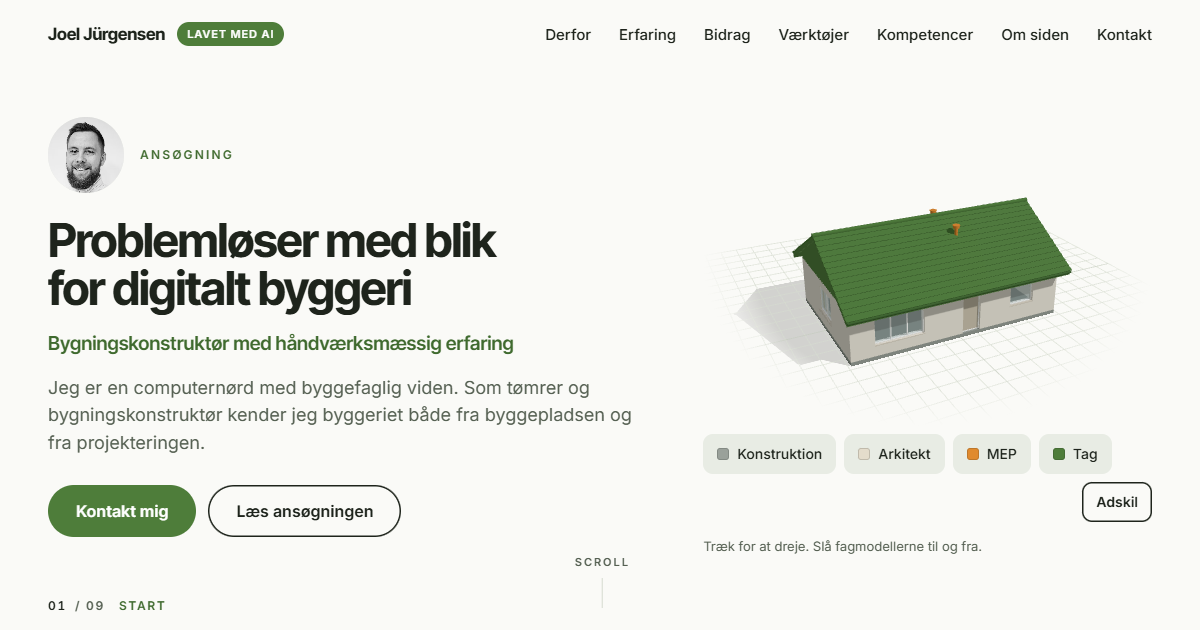
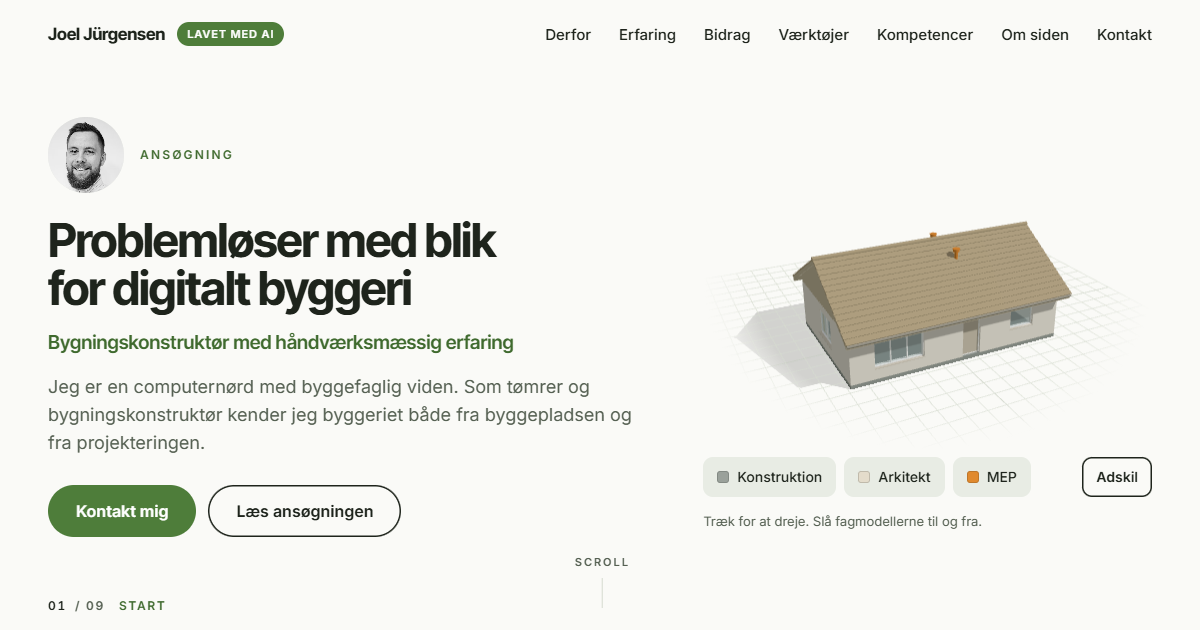
3D-hus: rem og spær i Konstruktion, taget i Arkitekt, fagmodellen Tag fjernet

diff --git a/house.js b/house.js
@@ -1,11 +1,12 @@
 /* =====================================================================
    house.js – 3D-huset i hero (Three.js r160, ingen build)
    Et parcelhus i ét plan, 11,7 × 7,4 m, bygget af geometri i koden og
-   delt i fire fagmodeller:
-     Konstruktion (grå)      stribefundament, sokkel og terrændæk
-     Arkitekt (hvid/beige)   hulmur med vinduer og døre, skillevægge
+   delt i tre fagmodeller:
+     Konstruktion (grå)      stribefundament, sokkel, terrændæk, rem og gitterspær
+     Arkitekt (hvid/beige)   hulmur med vinduer og døre, skillevægge og taget:
+                             lægter, tagsten, rygning, stern, tagrender og gavle
      MEP (orange)            ventilation: aggregat, kanaler, ventiler, taghætter
-     Tag (grøn)              rem, gitterspær, lægter, gavle og tagdækning
+   Et kald til setLayer('tag', …) fra en ældre lagknap gør ingenting.
    Mål i meter. y = 0 er terræn, og gitteret ligger i terrænhøjde. Fundamentet
    er skjult under terræn, indtil lagene adskilles og det løftes fri.
    ===================================================================== */
@@ -16,8 +17,7 @@ import { mergeGeometries } from 'three/addons/utils/BufferGeometryUtils.js';
 const LAYERS = {
   konstruktion: { label: 'Konstruktion', color: 0x9aa19a },
   arkitekt: { label: 'Arkitekt', color: 0xf0ebe1 },
-  mep: { label: 'MEP', color: 0xe08a2e },
-  tag: { label: 'Tag', color: 0x4e7d3a }
+  mep: { label: 'MEP', color: 0xe08a2e }
 };
 
 /* Lille hjælper: brug GSAP (samme easings som resten af siden), hvis det findes */
@@ -233,11 +233,16 @@ export function init(stage, opts = {}) {
   wallRun(vaegge, 'x', -0.9, -0.45, 1.75, 0.1, [dør(0.65, 0.8)], skille);       /* entré | bad */
   wallRun(vaegge, 'x', 0.35, 1.85, IX, 0.1, [], skille);                        /* værelse | værelse */
 
-  /* ================= 3 · Tag: rem, gitterspær, lægter og gavle ================= */
-  const spaer = makePart('tag', 6.6, 3);
-  const trae = material(spaer, 0x6c9858);              /* spærtræ og lægter, lysere end tagfladen */
-  const gavl = material(spaer, 0x5b8747);
-  const zink = material(spaer, 0x3f6830, 1, 0.6);
+  /* ================= 3 · Konstruktion: rem og gitterspær ================= */
+  const spaer = makePart('konstruktion', 6.6, 3);
+  const trae = material(spaer, 0xb1b7af);              /* spærtræ, lysere end betonen */
+
+  /* ================= 4 · Arkitekt: taget oven på spærene ================= */
+  const tagflade = makePart('arkitekt', 7.9, 5);
+  const tegl = material(tagflade, 0xb5a483);           /* tagsten og rygning i mørkere sand */
+  const laegte = material(tagflade, 0xddd3bb);
+  const gavl = material(tagflade, 0xcabea4);
+  const zink = material(tagflade, 0xa6a194, 1, 0.6);
 
   const PITCH = THREE.MathUtils.degToRad(30);
   const tanP = Math.tan(PITCH), cosP = Math.cos(PITCH), sinP = Math.sin(PITCH);
@@ -281,47 +286,46 @@ export function init(stage, opts = {}) {
   for (let i = 0; i < LAEGTER; i++) {
     const s = 0.07 + (i * (SLOPE - 0.14)) / (LAEGTER - 1);
     const zc = s * cosP + 0.025 * sinP, yc = yTop(0) - s * sinP + 0.025 * cosP;
-    [1, -1].forEach((side) => slopeBox(spaer, LX, 0.05, 0.075, side * PITCH, 0, yc, side * zc, trae));
+    [1, -1].forEach((side) => slopeBox(tagflade, LX, 0.05, 0.075, side * PITCH, 0, yc, side * zc, laegte));
   }
 
   /* Sternbræt og tagrende ved tagfoden */
   [1, -1].forEach((s) => {
-    box(spaer, LX, CHV + 0.03, 0.025, 0, (yTop(TAIL) + yBot(TAIL)) / 2 + 0.015, s * (TAIL + 0.0125), gavl);
-    put(spaer, new THREE.CylinderGeometry(0.065, 0.065, LX, 12).rotateZ(Math.PI / 2)
+    box(tagflade, LX, CHV + 0.03, 0.025, 0, (yTop(TAIL) + yBot(TAIL)) / 2 + 0.015, s * (TAIL + 0.0125), gavl);
+    put(tagflade, new THREE.CylinderGeometry(0.065, 0.065, LX, 12).rotateZ(Math.PI / 2)
       .translate(0, yTop(TAIL) - 0.05, s * (TAIL + 0.09)), zink);
   });
 
   /* Gavltrekanter med lodret bræddebeklædning (1 på 2) og vindskeder */
   [1, -1].forEach((s) => {
     const x = s * (L / 2 - 0.035);
-    prismX(spaer, [[-B / 2, WALL_TOP], [B / 2, WALL_TOP], [B / 2, yTop(B / 2)], [0, yTop(0)], [-B / 2, yTop(B / 2)]], 0.03, x, gavl);
+    prismX(tagflade, [[-B / 2, WALL_TOP], [B / 2, WALL_TOP], [B / 2, yTop(B / 2)], [0, yTop(0)], [-B / 2, yTop(B / 2)]], 0.03, x, gavl);
     for (let k = -14; k <= 14; k++) {
       const z0 = k * 0.25 - 0.05, z1 = k * 0.25 + 0.05;
       const pts = [[z0, WALL_TOP], [z1, WALL_TOP], [z1, yTop(z1)]];
       if (k === 0) pts.push([0, yTop(0)]);
       pts.push([z0, yTop(z0)]);
-      prismX(spaer, pts, 0.022, s * (L / 2 - 0.009), gavl);
+      prismX(tagflade, pts, 0.022, s * (L / 2 - 0.009), gavl);
     }
     const zv = TAIL + 0.025;
     const up = (z) => yTop(z) + 0.05 / cosP, dn = (z) => yTop(z) - 0.15;
-    prismX(spaer, [[-zv, dn(zv)], [0, dn(0)], [zv, dn(zv)], [zv, up(zv)], [0, up(0)], [-zv, up(zv)]], 0.025, s * (LX / 2 + 0.0125), gavl);
+    prismX(tagflade, [[-zv, dn(zv)], [0, dn(0)], [zv, dn(zv)], [zv, up(zv)], [0, up(0)], [-zv, up(zv)]], 0.025, s * (LX / 2 + 0.0125), gavl);
   });
 
-  /* ================= 4 · Tag: tagdækning og rygning ================= */
-  const tagflade = makePart('tag', 7.9, 5);
+  /* Tagdækning og rygning */
   const under = (z) => yTop(z) + 0.05 / cosP;          /* oven på lægterne */
   const over = (z) => under(z) + 0.06 / cosP;
   const EAVE = TAIL + 0.08;
-  prismX(tagflade, [[-EAVE, under(EAVE)], [0, under(0)], [EAVE, under(EAVE)], [EAVE, over(EAVE) - 0.03], [0, over(0) - 0.03], [-EAVE, over(EAVE) - 0.03]], LX + 0.08, 0);
+  prismX(tagflade, [[-EAVE, under(EAVE)], [0, under(0)], [EAVE, under(EAVE)], [EAVE, over(EAVE) - 0.03], [0, over(0) - 0.03], [-EAVE, over(EAVE) - 0.03]], LX + 0.08, 0, tegl);
   /* Tagsten i skifter: ét skifte pr. lægte, hvert skifte ligger en anelse fladere end tagfladen */
   const COURSE = (EAVE / cosP) / (LAEGTER - 1);
   const TILT = Math.atan(0.03 / COURSE);
   for (let i = 0; i < LAEGTER - 1; i++) {
     const s = (i + 0.5) * COURSE, n = 0.05 + 0.03 + 0.03;   /* afstand vinkelret fra spærets overside */
     const zc = s * cosP + n * sinP, yc = yTop(0) - s * sinP + n * cosP;
-    [1, -1].forEach((side) => slopeBox(tagflade, LX + 0.08, 0.03, COURSE / Math.cos(TILT), side * (PITCH - TILT), 0, yc, side * zc));
+    [1, -1].forEach((side) => slopeBox(tagflade, LX + 0.08, 0.03, COURSE / Math.cos(TILT), side * (PITCH - TILT), 0, yc, side * zc, tegl));
   }
-  put(tagflade, new THREE.CylinderGeometry(0.12, 0.12, LX + 0.12, 14).rotateZ(Math.PI / 2).translate(0, over(0) - 0.02, 0));
+  put(tagflade, new THREE.CylinderGeometry(0.12, 0.12, LX + 0.12, 14).rotateZ(Math.PI / 2).translate(0, over(0) - 0.02, 0), tegl);
 
   /* ================= 5 · MEP: ventilation i tagrummet ================= */
   const mep = makePart('mep', 3.9, 4);

diff --git a/index.html b/index.html
@@ -144,9 +144,12 @@ else document.documentElement.classList.add("reduced");
             <rect x="160" y="206" width="70" height="38" fill="#C7D8DA"/>
             <rect x="258" y="206" width="48" height="38" fill="#C7D8DA"/>
           </g>
-          <g data-layer="tag" class="svg-part p-roof">
-            <path d="M66 184 200 106 334 184Z" fill="#E3EBDD" stroke="#4E7D3A" stroke-width="2"/>
-            <path d="M44 190 200 98 356 190" fill="none" stroke="#4E7D3A" stroke-width="12" stroke-linejoin="miter"/>
+          <g data-layer="konstruktion" class="svg-part p-truss" fill="none" stroke="#9AA19A" stroke-width="4" stroke-linejoin="round" stroke-linecap="round">
+            <path d="M70 184H330M70 184 200 110 330 184M200 110V184M135 184 167 147M265 184 233 147"/>
+          </g>
+          <g data-layer="arkitekt" class="svg-part p-roof">
+            <path d="M66 184 200 106 334 184Z" fill="#E9E2D0" stroke="#C9C2B2" stroke-width="2"/>
+            <path d="M44 190 200 98 356 190" fill="none" stroke="#B5A483" stroke-width="12" stroke-linejoin="miter"/>
           </g>
           <g data-layer="mep" class="svg-part p-mep" fill="none" stroke="#E08A2E" stroke-width="6" stroke-linecap="round" stroke-linejoin="round">
             <path d="M118 170H282M236 170V96"/>
@@ -158,9 +161,7 @@ else document.documentElement.classList.add("reduced");
       <div class="layers" role="group" aria-label="Lag i modellen">
         <button class="layer" type="button" data-layer="konstruktion" aria-pressed="true"><i style="--c:#9AA19A"></i>Konstruktion</button>
         <button class="layer" type="button" data-layer="arkitekt" aria-pressed="true"><i style="--c:#E4DCCB"></i>Arkitekt</button>
-        <button class="layer" type="button" data-layer="mep" aria-pressed="true"><i style="--c:#E08A2E"></i>MEP</button>
-        <button class="layer" type="button" data-layer="tag" aria-pressed="true"><i style="--c:#4E7D3A"></i>Tag</button>
-        <button class="layer layer-explode" type="button" id="explode" aria-pressed="false">Adskil</button>
+        <button class="layer" type="button" data-layer="mep" aria-pressed="true"><i style="--c:#E08A2E"></i>MEP</button>        <button class="layer layer-explode" type="button" id="explode" aria-pressed="false">Adskil</button>
       </div>
       <p class="stage-hint">Træk for at dreje. Slå fagmodellerne til og fra.</p>
     </div>

diff --git a/style.css b/style.css
@@ -314,7 +314,8 @@ p + p { margin-top: 16px; }
 .svg-part.is-off { opacity: 0; }
 .stage.is-exploded .p-wall { transform: translateY(-12px); }
 .stage.is-exploded .p-mep { transform: translateY(-34px); }
-.stage.is-exploded .p-roof { transform: translateY(-52px); }
+.stage.is-exploded .p-truss { transform: translateY(-30px); }
+.stage.is-exploded .p-roof { transform: translateY(-62px); }
 .house-label {
   position: absolute; left: 0; top: 0; z-index: 2; pointer-events: none;
   padding: 6px 10px; border-radius: 8px; background: var(--ink); color: var(--bg);

diff --git a/main.js b/main.js
@@ -138,7 +138,7 @@
   let current = null;
   let menuOpen = false;
   let houseApi = null;
-  const houseState = { layers: { konstruktion: true, arkitekt: true, mep: true, tag: true }, manual: reduced, scroll: 0, active: true };
+  const houseState = { layers: { konstruktion: true, arkitekt: true, mep: true }, manual: reduced, scroll: 0, active: true };
 
   /* Tidslinjen: fem stop inde i ét fokuspunkt */
   const tl = {

diff --git a/BESLUTNINGER.md b/BESLUTNINGER.md
@@ -15,7 +15,7 @@ Valg, der afviger fra eller præciserer `BRIEF.md`. Én linje begrundelse pr. va
 - **Demoerne er kopier af appernes brugerflade med eksempeldata.** En illustration, der ikke ligner appen, er forkert at vise. Kopierne følger skærmbillederne og er mærket "Kopi · eksempeldata". Det erstatter briefens mærkat "Illustration".
 - **Skærmbilleder af de rigtige apps er med.** I KNtool-billedet er kundenavne, adresse og filsti sløret direkte i billedfilen. Teksten bruger de funktioner, billederne viser, men ingen tal eller versionsnumre.
 - **Fusion 360 bruges til funktionelle 3D-print i fritiden.** Oplyst af Joel, står ikke i briefen.
-- **3D-huset er et parcelhus i ét plan.** Det er bygget om i en separat session og godkendt af Joel: stribefundament og terrændæk, hulmur med vinduer og døre, gitterspær og tagsten, og ventilation som MEP. Briefens beskrivelse af huset (gulv, etageadskillelse, ét rør) gælder ikke længere.
+- **3D-huset er et parcelhus i ét plan med tre fagmodeller.** Det er bygget om i en separat session og godkendt af Joel. Konstruktion: stribefundament, sokkel, terrændæk, rem og gitterspær. Arkitekt: hulmur med vinduer og døre, skillevægge og hele taget (lægter, tagsten, rygning, tagrender og gavle) i sandfarve. MEP: ventilation. Fagmodellen "Tag" og dens knap er fjernet, fordi spær er konstruktion og tagdækning er arkitekt. Briefens beskrivelse af huset gælder ikke længere.
 - **`Start siden.bat` starter siden lokalt.** Den åbner siden med `?motion=1`, så animationerne kører.
 
 ## Egne valg undervejs
@@ -31,7 +31,7 @@ Valg, der afviger fra eller præciserer `BRIEF.md`. Én linje begrundelse pr. va
 - **På mobil ligger demoer og git-historik bag en knap.** De glider op over fokuspunktet og får hele skærmen. Skærmbilledet åbnes også fra en knap.
 - **Kopierne fanger ikke musehjulet unødigt.** RFAtool viser de families, der er plads til. Træet i KNtool kan kun rulle, når indholdet er højere end feltet.
 - **Kopierne viser kun det, skærmbillederne viser.** Klassifikationskoder og menupunkter er taget fra billederne. Knapper, hvis funktion ikke kan ses, er med som udseende, men gør ikke noget.
-- **Fallback-tegningen følger det nye hus.** Gavlen hører til Tag, og MEP vises som kanal og taghætte.
+- **Fallback-tegningen følger det nye hus.** Rem og spær hører til Konstruktion, tag og gavl til Arkitekt, og MEP vises som kanal og taghætte.
 - **Billedstier står i `CONFIG`.** Tom sti betyder, at billedet ikke vises. Så kommer der ingen 404-fejl i konsollen.
 - **PDF'en er udelukket fra git (`.gitignore`).** Den indeholder gadeadressen.
 - **Mappen hedder `Materiale` med stort M i stierne.** GitHub Pages skelner mellem store og små bogstaver.
